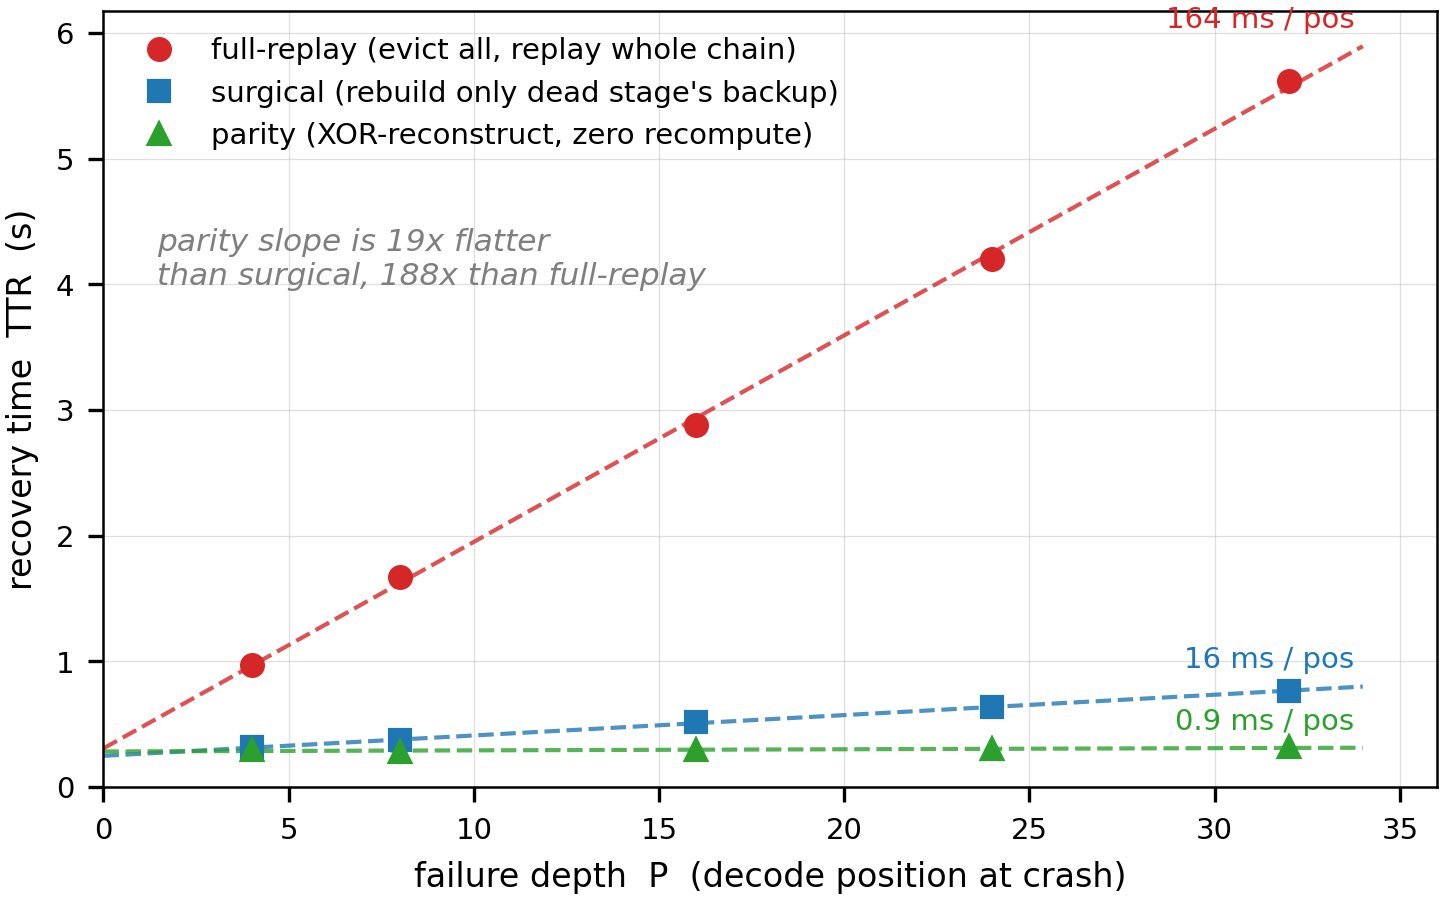
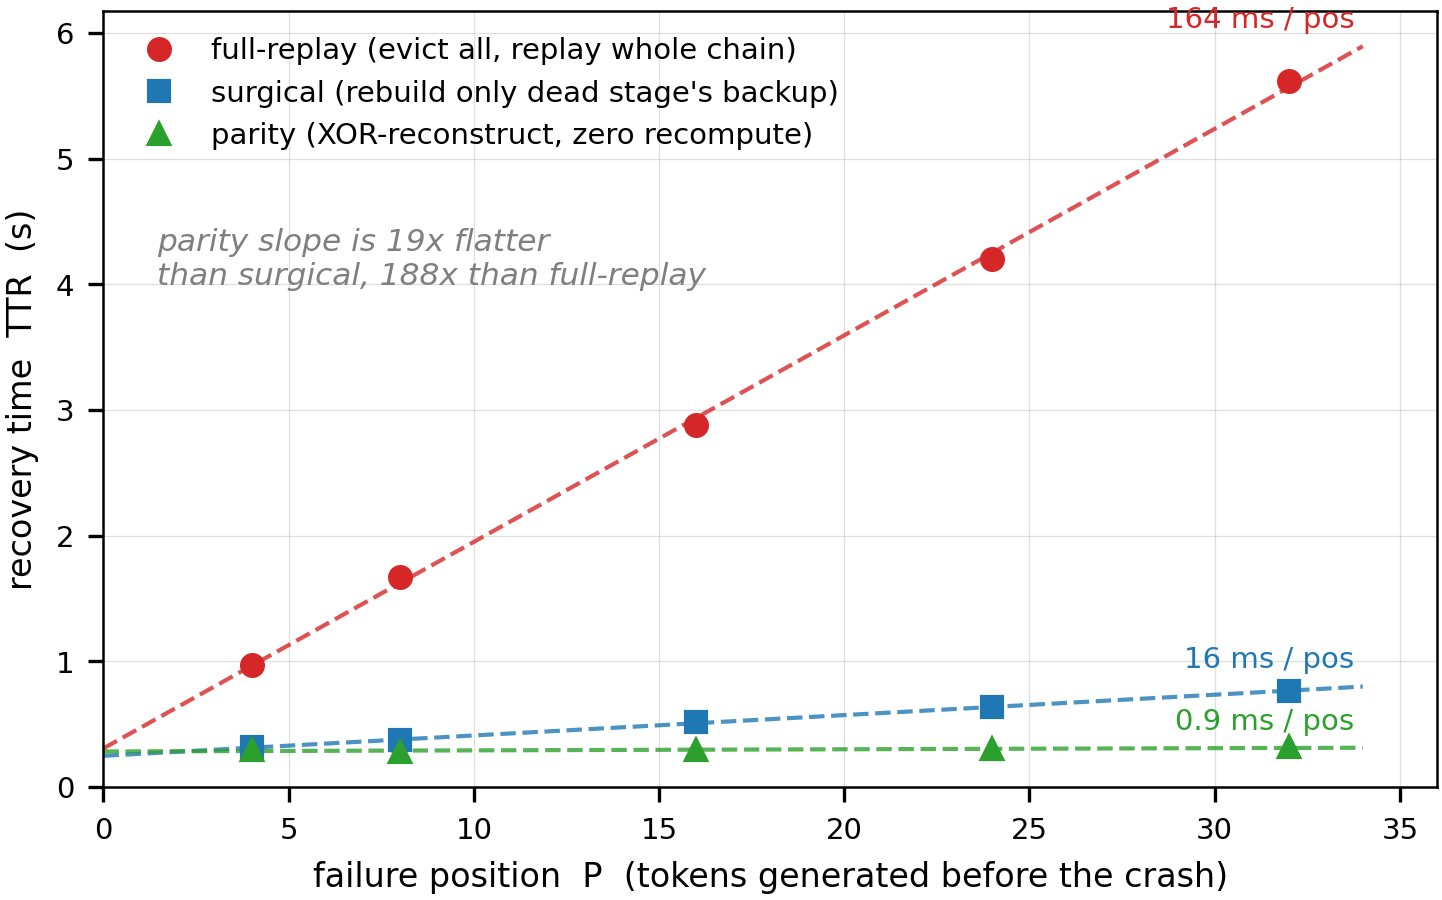
docs(ppt): rename "failure depth" to failure position, it read as stage order
P 는 죽기까지 만든 토큰 수(생성 진행도)인데 "깊이" 라고 부르면 파이프라인
몇 번째 stage 인지로 읽힌다. 하필 victim 의 체인 위치도 따로 바꿔가며
측정하므로(on-1 첫 워커 vs on-6 중간) 두 개가 한 단어를 나눠 쓰고 있었다.

- 축 라벨: "failure depth P" -> "failure position P (tokens generated
  before the crash)". 슬라이드판·논문판 둘 다.
- families 그림 결론: "cost scales with failure depth" ->
  "cost scales with how far in it died"
- 프롬프트 3종의 표현 11건 교체. 표 행 이름 "깊이 P당 비용" ->
  "P 1개당 추가 비용", 헤드라인 "장애 깊이에서 떼어냄" -> "장애 시점에서".
  TTR 슬라이드에 "P는 생성 진행도지 stage 순서가 아님" 을 발표에서 한 번
  짚으라는 지시 추가.
- 이미 만들어진 덱용으로 prompt_0721_ghostserve.md 에 문구 교체 작업과
  그림 재삽입 지시를 넣었다.
- §11 에 규칙 추가: 축 라벨과 용어는 한 번 정의하고 끝까지 같은 말을 쓴다.
  한 단어가 두 가지를 가리키면 질의응답이 거기서 샌다.

Claude-Session: https://claude.ai/code/session_01FfKQPAstkv5E1GtvR5op9j

Changed region(s): [[0.2184, 0.9644, 0.8426, 0.9956]]

diff --git a/paper/figures/make_recovery_ttr.py b/paper/figures/make_recovery_ttr.py
@@ -1,4 +1,4 @@
-"""Figure: recovery time vs failure depth (TTR(P)) on the live fleet.
+"""Figure: recovery time vs failure position (TTR(P)) on the live fleet.
 
 surgical vs full-replay recovery, OPT-350M, sync chain, 5-stage heterogeneous
 Jetson fleet (ao-2 head, on-1/on-6/ao-1 interior, on-2 tail). One chain-interior
@@ -7,7 +7,7 @@ compute-time crash injected at decode position P; y = the recovery step's wall.
 Data: experiments/results/b1_ft_fleet.json (experiments.b1_ft_fleet sweep).
 The linear fits show full-replay pays ~one full chain forward per replayed
 position (~150 ms, ≈ steady decode step) while surgical pays only the dead
-stage's fraction (~15 ms), a ~10x slope gap that widens with failure depth.
+stage's fraction (~15 ms), a ~10x slope gap that widens with failure position.
 """
 from __future__ import annotations
 import json
@@ -60,7 +60,7 @@ for mode, (color, marker, label) in STYLE.items():
         ha="right", va="bottom", color=color, fontsize=7,
     )
 
-ax.set_xlabel("failure depth  P  (decode position at crash)")
+ax.set_xlabel("failure position  P  (tokens generated before the crash)")
 ax.set_ylabel("recovery time  TTR  (s)")
 ax.set_xlim(0, 36)
 ax.set_ylim(0, None)

diff --git a/paper/figures/make_parity_diagrams.py b/paper/figures/make_parity_diagrams.py
@@ -166,7 +166,7 @@ def recovery_families(only_existing: bool = False):
 
     새 기술을 소개하는 발표에서는 기존 방식의 한계를 먼저 세워야 원리 설명이
     읽힌다. 같은 그림을 두 번 쓰되 앞에서는 parity 를 감춰, 청중이 "둘 다
-    재계산이라 깊이를 탄다" 를 먼저 받아들이게 한다.
+    재계산이라 늦게 죽을수록 비싸다" 를 먼저 받아들이게 한다.
     """
     fig = plt.figure(figsize=SLIDE_FULL)
     ax = panel(fig, [0.02, 0.11, 0.96, 0.80], (0, 10),
@@ -213,7 +213,7 @@ def recovery_families(only_existing: bool = False):
 
     ax = panel(fig, [0.02, 0.0, 0.96, 0.10], (0, 10), (0, 1))
     ax.text(0.05, 0.5,
-            "both re-run the dead stage — cost scales with failure depth"
+            "both re-run the dead stage — cost scales with how far in it died"
             if only_existing
             else "parity solves for the dead stage instead of re-running it",
             fontsize=13, color=BODY, va="center")

diff --git a/paper/figures/make_recovery_ttr_slide.py b/paper/figures/make_recovery_ttr_slide.py
@@ -2,6 +2,11 @@
 
 Same data as `make_recovery_ttr.py`, built at slide scale with the deck palette.
 
+**"position", not "depth".** P is how far into the generation the crash
+happened — the token index the victim died on — not how deep in the pipeline the
+victim sat. We vary the victim's chain position separately, so the two must not
+share a word.
+
 **Log y-axis on purpose.** On a linear axis full-replay reaches 6 s and squashes
 surgical and parity into the bottom 5% of the plot — the very contrast the
 figure exists to show. Log keeps a flat line flat (parity's ~0 slope still reads
@@ -72,7 +77,7 @@ for mode, (color, marker, label) in STYLE.items():
                 va="center", ha="left", fontsize=12.5, color=color,
                 fontweight="bold", linespacing=1.4, annotation_clip=False)
 
-ax.set_xlabel("failure depth  P")
+ax.set_xlabel("failure position  P   (tokens generated before the crash)")
 ax.set_ylabel("recovery time (s, log)")
 ax.set_yscale("log")
 ax.set_xlim(0, 36)

diff --git a/ppt/prompt_0721.md b/ppt/prompt_0721.md
@@ -29,7 +29,7 @@
 ## 인테이크
 
 **날짜:** 2026-07-21
-**헤드라인:** 복구 시간을 장애 깊이에서 떼어냄 — parity는 P 무관 정상 스텝의 1.6~1.9배
+**헤드라인:** 복구 시간을 장애 시점에서 떼어냄 — parity는 P 무관 정상 스텝의 1.6~1.9배
 
 ### 지난 피드백 → 대응 (P1, 3행)
 
@@ -50,7 +50,7 @@
 - 라벨 3줄:
   - full-replay — 체인 전체 재-forward
   - surgical — 죽은 stage만 재-forward
-  - 둘 다 모델을 다시 돌림 → 비용이 장애 깊이 P에 비례
+  - 둘 다 모델을 다시 돌림 → 늦게 죽을수록 비쌈 (P에 비례)
 - 캡션: OPT-350M 24층 / 5-stage 이종 체인 / position 1개당 비용
 
 **1. RADP — b. parity 원리 — 재계산 대신 XOR 역산**
@@ -65,12 +65,12 @@
 | | full-replay | surgical | parity |
 |---|---|---|---|
 | 복구 시 재계산 | 체인 전체 | 죽은 stage | **없음** |
-| 깊이 P당 비용 | 164 ms | 16 ms | **0.87 ms** |
+| P 1개당 추가 비용 | 164 ms | 16 ms | **0.87 ms** |
 | 정상 운영 추가 비용 | 없음 | 입력 미러 | 입력 미러 + **KV 컬럼 전송** |
 | 적용 범위 | 전부 | 전부 | non-head + downstream 생존자 필요 |
 | 동시 장애 | — | — | **1대 (RAID-5)** |
 
-→ 표 아래 결론 한 줄: **깊이 비용을 정상 운영 중 네트워크 세금과 맞바꾼 것**
+→ 표 아래 결론 한 줄: **장애 시점 비용을 정상 운영 중 네트워크 세금과 맞바꾼 것**
 
 **1. RADP — d. 적용 범위를 첫 워커 밖으로**
 - 시각물: `paper/figures/fig_generalization.png` — **11.73 in 전폭 그림**
@@ -80,14 +80,16 @@
   - 노드 3개 체인에서는 홉이 하나뿐이라 드러날 수 없던 버그
 - 캡션: fleet 기준 on-1 · on-6 · ao-1은 parity, tail on-2만 폴백
 
-**2. Measurement — a. 복구 시간이 장애 깊이를 안 탐**
+**2. Measurement — a. 복구 시간이 장애 시점을 안 탐**
 - 시각물: `paper/figures/fig_recovery_ttr_slide.png`
 - 라벨 3줄:
-  - 기울기 = 깊이 P당 추가 비용
+  - P = 죽기까지 만든 토큰 수. 기울기 = P 1개당 추가 비용
   - full-replay 164 → surgical 16 → parity 0.87 ms/pos
   - parity만 기울기 ≈ 0
 - 캡션: OPT-350M 24층 / 5-stage 이종 체인 / 15개 트라이얼 전부 유효
 - 참고: 로그축임. 점선은 정상 decode 스텝 163 ms 기준선
+- **용어 주의:** P는 *생성 진행도*(죽기까지 만든 토큰 수)지 파이프라인 stage 순서가 아님.
+  victim 위치(어느 워커)와 헷갈리지 않게 발표에서 한 번 짚어라
 
 **2. Measurement — b. 실측치** (P4 표)
 
@@ -102,7 +104,7 @@ victim `on-1[16..17]`, 15/15 valid, parity 5/5 `parity_branch_ran=True`:
 중간 victim `on-6[18..19]`도 같은 결론 (15/15 valid):
 full-replay `321.6 + 163.01·P` / surgical `223.9 + 17.53·P` / parity `245.5 + 1.43·P`
 
-→ 표 아래 결론 한 줄: **parity 기울기는 장애 깊이·victim 위치 모두와 무관**
+→ 표 아래 결론 한 줄: **parity 기울기는 장애 시점·victim 위치 모두와 무관**
 
 ### 한계 (반드시 슬라이드에 올릴 것)
 

diff --git a/ppt/DESIGN_SYSTEM.md b/ppt/DESIGN_SYSTEM.md
@@ -254,7 +254,7 @@ dpi          300 (png) / pdf 동시 출력
 읽기 시작하면 청중은 슬라이드를 보지 발표자를 안 봄.
 
 - **종결은 음슴체(`-함`, `-됨`, `-임`) 또는 명사로.** 존댓말·서술체 금지
-- ✗ `parity 는 깊이에 무관하게 동작합니다` → ✓ `깊이 무관`
+- ✗ `parity는 장애 시점에 무관하게 동작합니다` → ✓ `장애 시점 무관`
 - ✗ `버그를 두 개 발견했습니다` → ✓ `구현 중 버그 2건` / `버그 2건 발견함`
 - ✗ `이 결과는 중요한 의미를 가집니다` → 근거 없는 의미 부여. 삭제하고 숫자만 남김
 
@@ -278,7 +278,7 @@ dpi          300 (png) / pdf 동시 출력
 `빠르다`는 정보가 아님. `0.87 ms/pos`가 정보임.
 
 ### 슬라이드 제목은 라벨이 아니라 주장
-- ✗ `실측 결과` → ✓ `parity는 깊이를 안 탄다`
+- ✗ `실측 결과` → ✓ `parity는 장애 시점을 안 탐`
 - 청중이 그림을 볼 때 **무엇을 확인해야 하는지** 알고 보게 된다
 
 ---
@@ -346,6 +346,9 @@ dpi          300 (png) / pdf 동시 출력
 - **다른 실행의 수치를 섞지 않는다.** 비교표에 올리는 값은 같은 실행에서 나온 것이어야 한다
 - **한계를 빼지 않는다.** 선제적으로 밝히는 편이 질의응답에서 유리하다
 - 선행연구 대비 주장은 **원문이 실제로 말한 범위**까지만
+- **축 라벨과 용어는 한 번 정의하고 끝까지 같은 말을 쓴다.** 한 단어가 두 가지를 가리키면
+  질의응답이 거기서 샌다 (0721: `장애 깊이` 가 생성 진행도인지 stage 순서인지 모호 →
+  `failure position P (tokens generated before the crash)` 로 교체)
 - **인용은 IEEE 스타일**, 저자명은 PDF 에서 확인한 것만 쓴다. 카탈로그(`paper/refs/PAPERS.md`)에
   저자가 없으면 `pdftotext -f 1 -l 1` 로 첫 장에서 뽑는다 — 기억으로 채우지 않는다
 - 슬라이드에서 이름을 댄 선행연구는 **Reference 슬라이드에 반드시 항목이 있어야 한다**
@@ -384,7 +387,7 @@ dpi          300 (png) / pdf 동시 출력
 - 상세 맥락은 발표자 노트로. 단 숫자와 근거는 슬라이드에 올릴 것
 
 [슬라이드 제목]
-- 라벨이 아니라 주장으로. "실측 결과"(X) → "parity는 깊이를 안 탄다"(O)
+- 라벨이 아니라 주장으로. "실측 결과"(X) → "parity는 장애 시점을 안 탐"(O)
 
 [정확성]
 - 아래 인테이크에 없는 숫자를 지어내지 말 것. 필요하면 물어봐

diff --git a/ppt/prompt_0721_ghostserve.md b/ppt/prompt_0721_ghostserve.md
@@ -64,10 +64,28 @@ GhostServe:
 
 한 줄로 이어 쓰되 폭이 모자라면 자연스럽게 접어라. 항목 번호 `[1]` 은 유지한다.
 
+## 작업 4 — `장애 깊이` 표현 교체 (그림 재삽입 포함)
+
+`깊이` 가 파이프라인 stage 순서로 읽혀서 victim 위치와 헷갈린다. P는 **죽기까지 만든
+토큰 수**다. 아래 문구를 찾아 바꾼다 (해당 슬라이드의 다른 요소는 건드리지 마라):
+
+| 찾을 것 | 바꿀 것 |
+|---|---|
+| `복구 시간이 장애 깊이를 안 탐` | `복구 시간이 장애 시점을 안 탐` |
+| `기울기 = 깊이 P당 추가 비용` 또는 `기울기가 곧 "깊이 P 당 추가 비용"` | `P = 죽기까지 만든 토큰 수. 기울기 = P 1개당 추가 비용` |
+| 표의 `깊이 P당 비용` 행 이름 | `P 1개당 추가 비용` |
+| `깊이 비용을 정상 운영 중 …` | `장애 시점 비용을 정상 운영 중 …` |
+| `parity 기울기는 장애 깊이·victim 위치 …` | `parity 기울기는 장애 시점·victim 위치 …` |
+| `비용이 장애 깊이 P에 비례` | `늦게 죽을수록 비쌈 (P에 비례)` |
+
+TTR 그래프 슬라이드의 그림도 축 라벨이 바뀌었으므로 **다시 얹는다**:
+`paper/figures/fig_recovery_ttr_slide.png` — 6.42 in, 현재 자리 그대로, 배율 100%.
+
 ## 끝나고 확인할 것
 
 - 슬라이드가 정확히 **1장 늘었는지** (장단점 표가 두 개가 되지 않았는지)
 - 새 슬라이드에 쪽번호가 있는지
 - Reference 슬라이드에 GhostServe 인용이 들어갔는지
+- 덱 어디에도 `깊이` 라는 말이 남아 있지 않은지
 - 새로 쓴 문장이 음슴체·명사 종결인지, 영단어 뒤 조사가 붙어 있는지
   (`GhostServe 가` ✗ → `GhostServe가` ✓)

diff --git a/ppt/prompt_0721_flow.md b/ppt/prompt_0721_flow.md
@@ -36,7 +36,7 @@ parity 가 이기는 그림만 남아 있다.
 - 불릿:
   - `• full-replay — 체인 전체 재-forward`
   - `• surgical — 죽은 stage만 재-forward`
-  - `• 둘 다 모델을 다시 돌림 → 비용이 장애 깊이 P에 비례`
+  - `• 둘 다 모델을 다시 돌림 → 늦게 죽을수록 비쌈 (P에 비례)`
 - 캡션 유지: `OPT-350M 24층 / 5-stage 이종 체인 / position 1개당 비용`
 
 ## 작업 2 — 5번 슬라이드 (배치가 바뀐다)
@@ -92,12 +92,12 @@ parity 가 이기는 그림만 남아 있다.
 | | full-replay | surgical | parity |
 |---|---|---|---|
 | 복구 시 재계산 | 체인 전체 | 죽은 stage | 없음 |
-| 깊이 P당 비용 | 164 ms | 16 ms | 0.87 ms |
+| P 1개당 추가 비용 | 164 ms | 16 ms | 0.87 ms |
 | 정상 운영 추가 비용 | 없음 | 입력 미러 | 입력 미러 + KV 컬럼 전송 |
 | 적용 범위 | 전부 | 전부 | non-head + downstream 생존자 필요 |
 | 동시 장애 | — | — | 1대 (RAID-5) |
 
-- 표 아래 결론 한 줄(16pt 굵게): `깊이 비용을 정상 운영 중 네트워크 세금과 맞바꾼 것`
+- 표 아래 결론 한 줄(16pt 굵게): `장애 시점 비용을 정상 운영 중 네트워크 세금과 맞바꾼 것`
 
 **`동시 장애` 행의 앞 두 칸은 `—` 그대로 두어라.** 측정한 적 없는 값을 채우지 마라.
 
